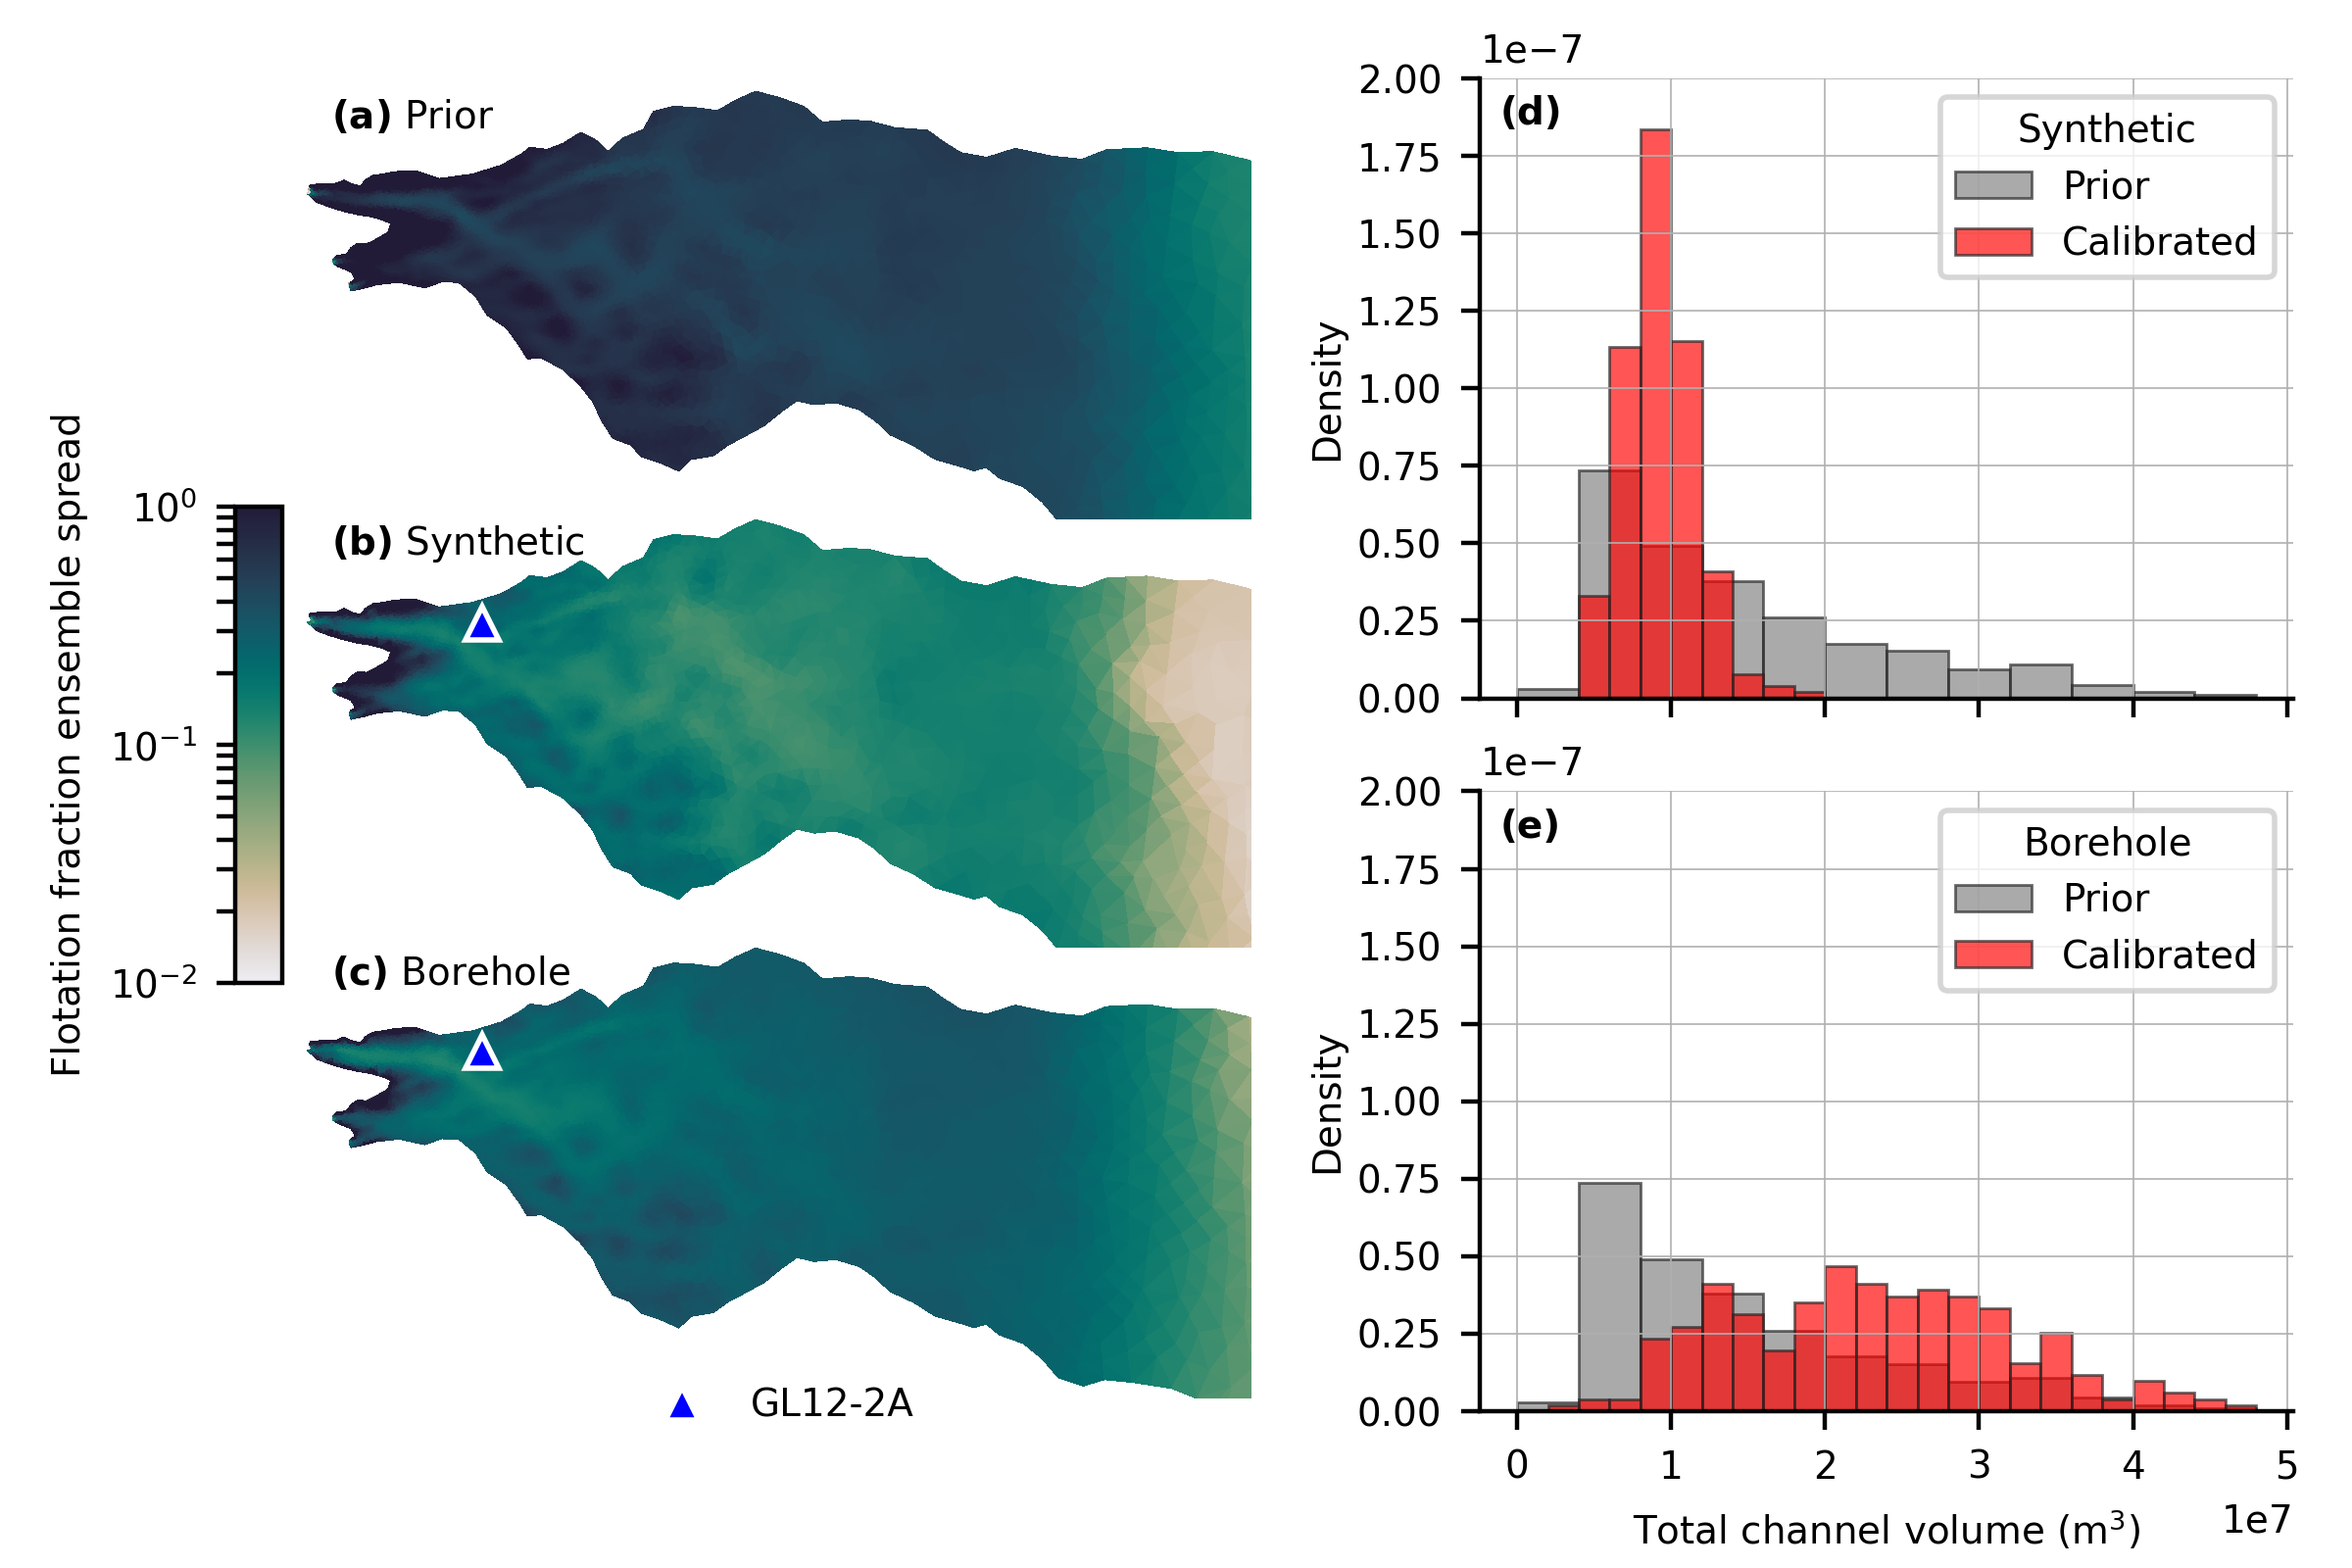
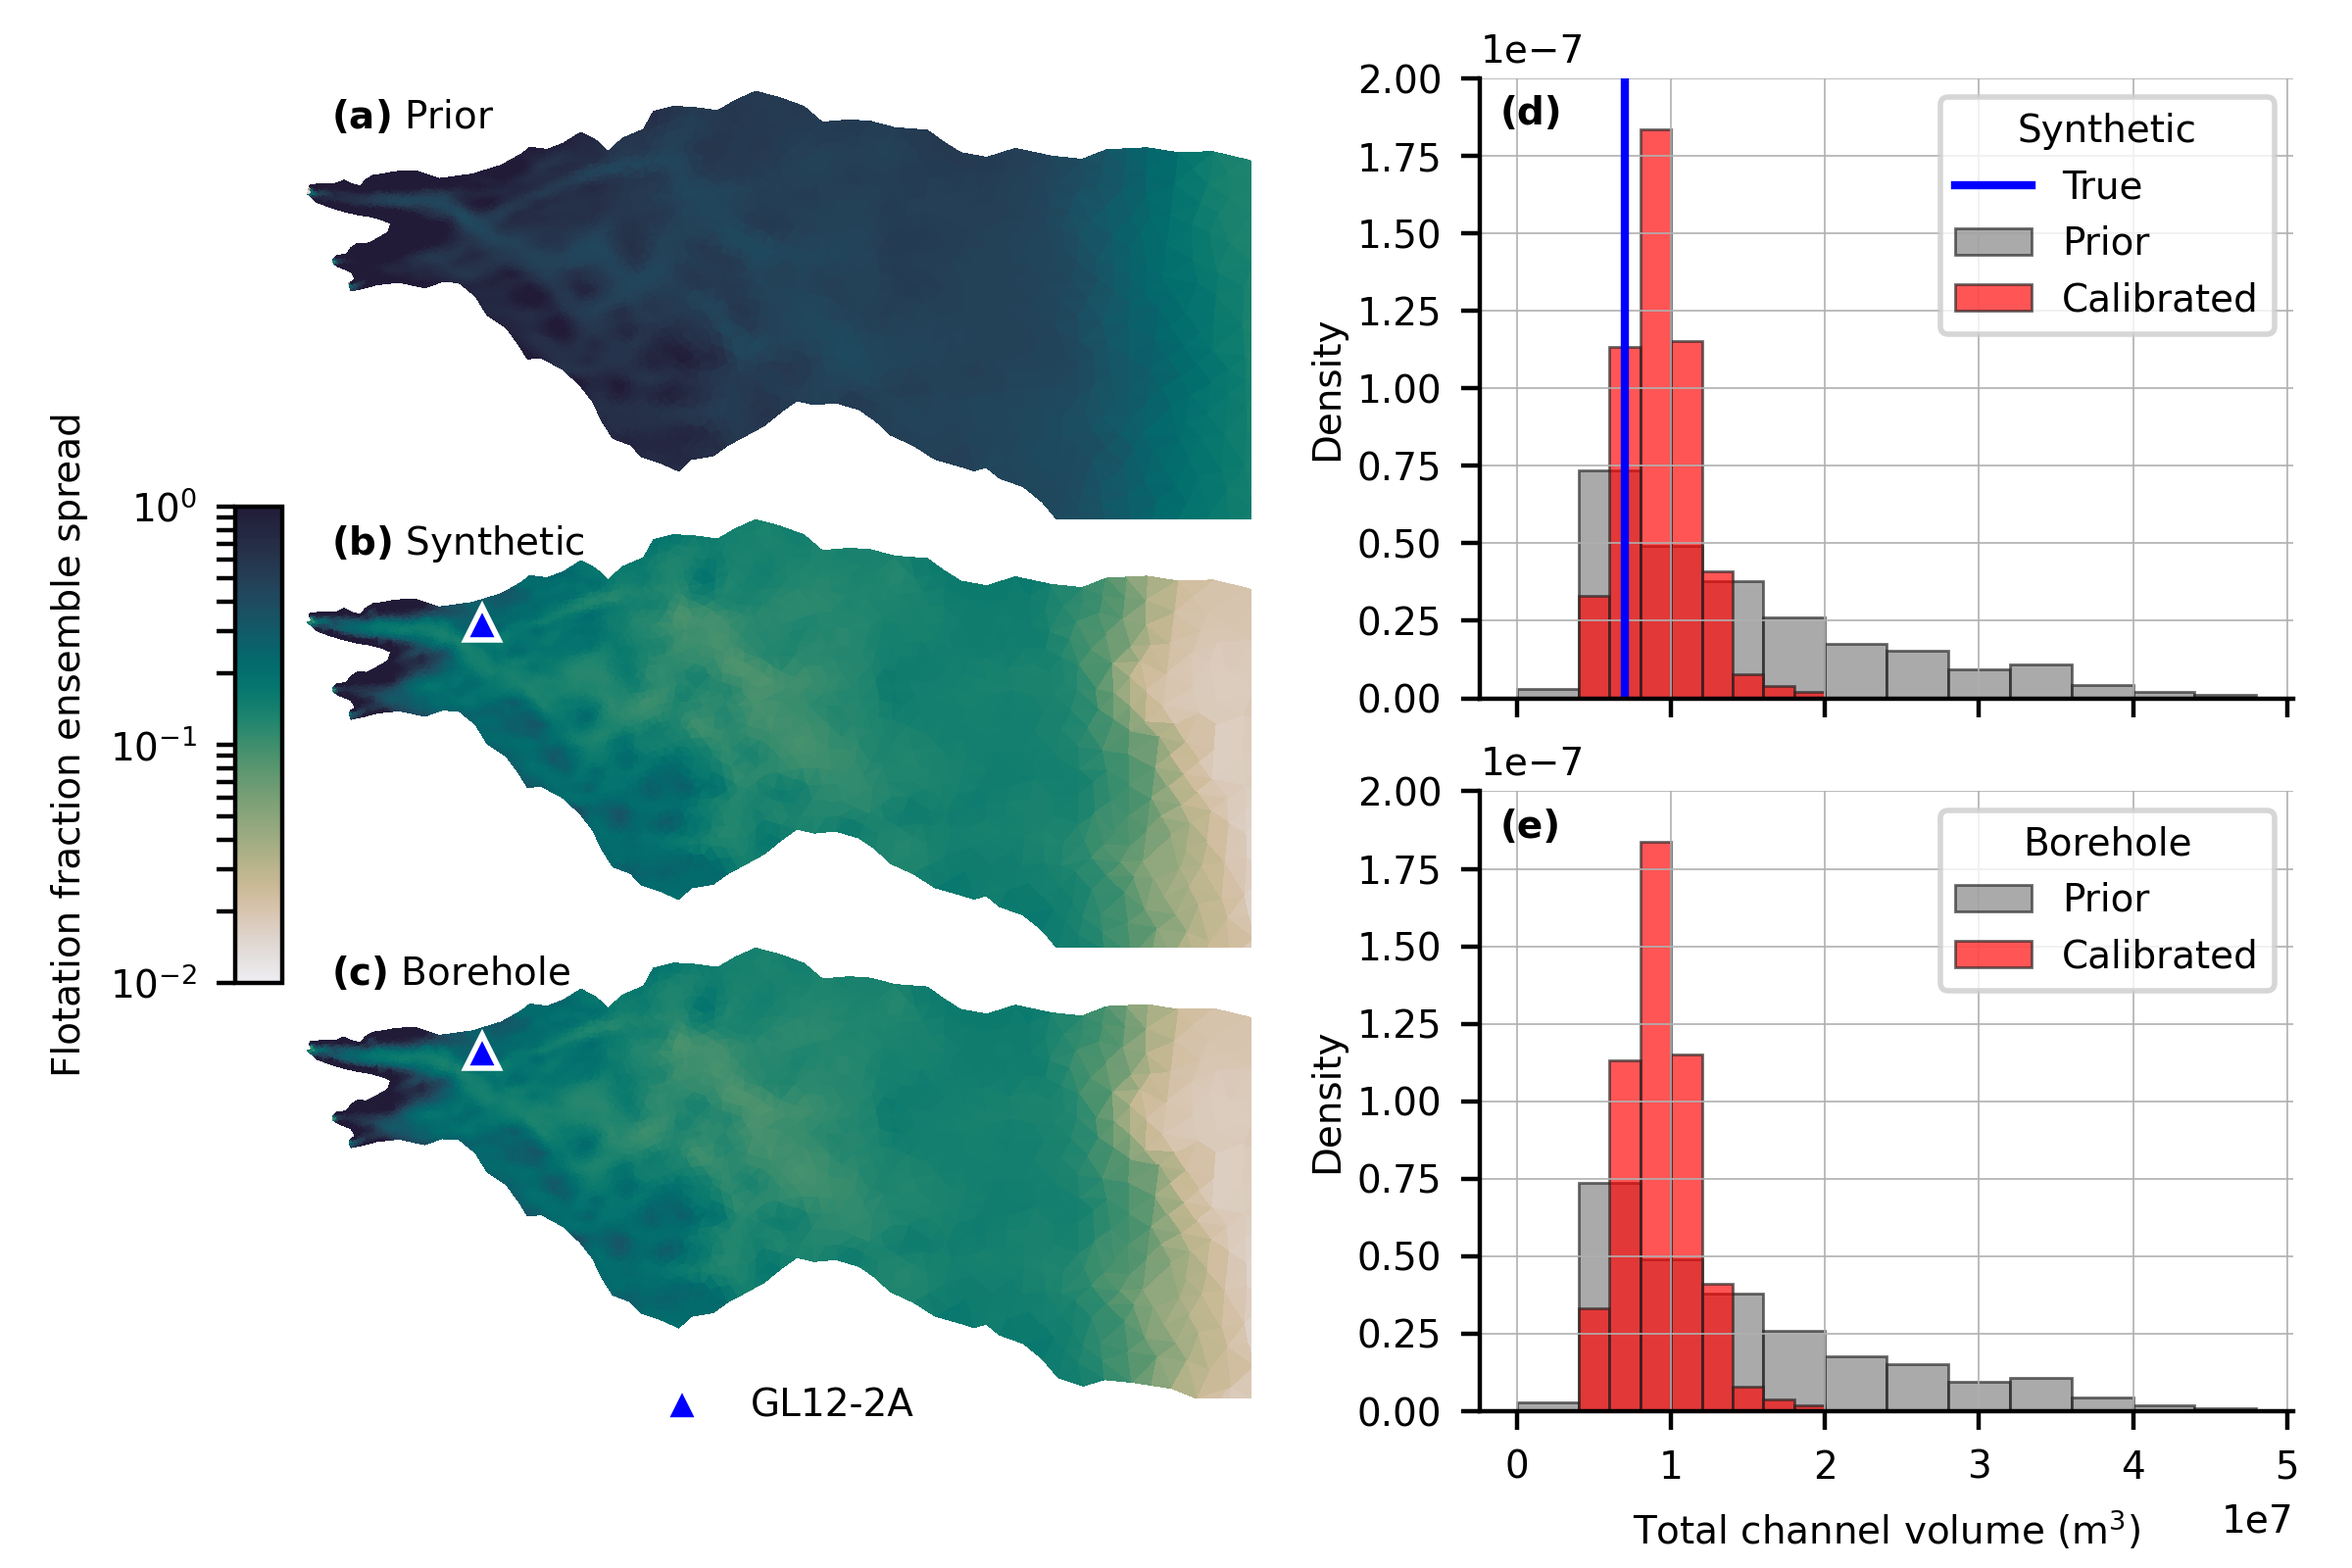
Plot true value on posterior channel histogram

diff --git a/analysis/borehole/compare_posterior.py b/analysis/borehole/compare_posterior.py
@@ -36,9 +36,9 @@ def main(train_config, synth_config, bh_config, bh_data):
     S_synth = np.load(synth_config.Y_physical.replace('ff', 'S'), mmap_mode='r').T
     S_bh = np.load(bh_config.Y_physical.replace('ff', 'S'), mmap_mode='r').T
 
-    Q_prior = np.load(train_config.Y_physical.replace('ff', 'Q'), mmap_mode='r').T
-    Q_synth = np.load(synth_config.Y_physical.replace('ff', 'Q'), mmap_mode='r').T
-    Q_bh = np.load(bh_config.Y_physical.replace('ff', 'Q'), mmap_mode='r').T
+    #Q_prior = np.load(train_config.Y_physical.replace('ff', 'Q'), mmap_mode='r').T
+    #Q_synth = np.load(synth_config.Y_physical.replace('ff', 'Q'), mmap_mode='r').T
+    #Q_bh = np.load(bh_config.Y_physical.replace('ff', 'Q'), mmap_mode='r').T
 
     mesh = np.load(train_config.mesh, allow_pickle=True)
     mtri = Triangulation(mesh['x']/1e3, mesh['y']/1e3, mesh['elements']-1)
@@ -150,6 +150,8 @@ def main(train_config, synth_config, bh_config, bh_data):
     axs_hist[0].bar(synthBins[:-1], synthCounts, width=postBins[1]-postBins[0],
         label='Calibrated', color='r', 
         alpha=2./3., edgecolor='#222222', align='edge', linewidth=0.5)
+
+    axs_hist[0].axvline(S_tot_prior[90], color='b', label='True')
 
     axs_hist[1].bar(priorBins[:-1], priorCounts, width=priorBins[1]-priorBins[0], 
         label='Prior', color='gray', 
